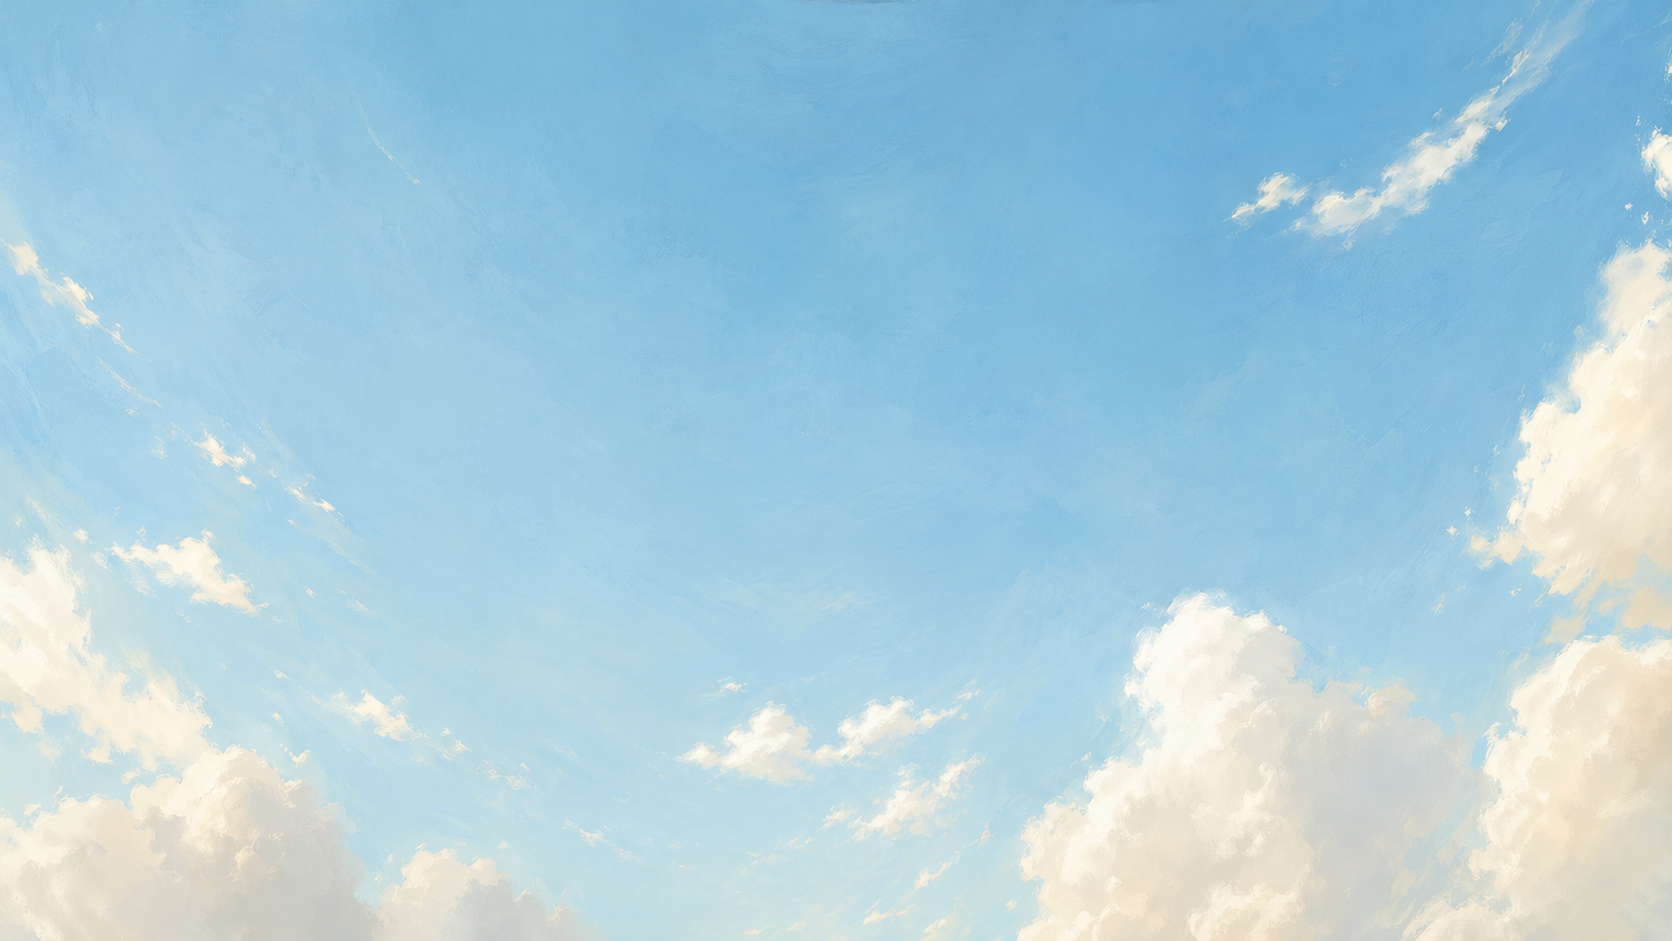
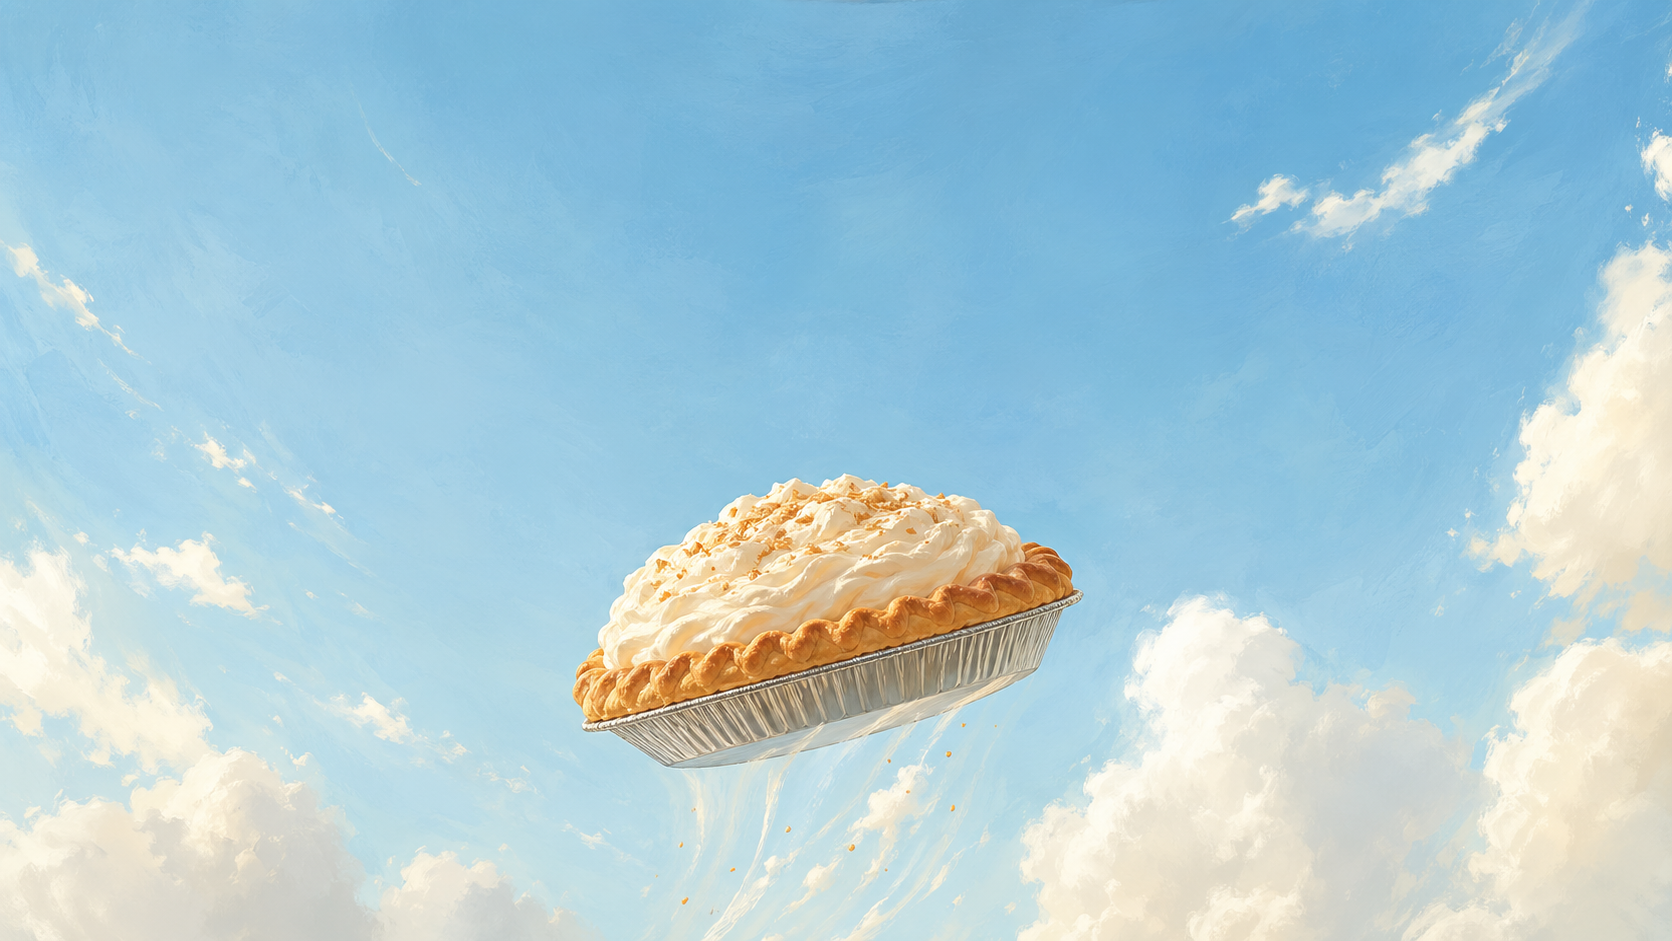
Restore pie background

diff --git a/src/App.tsx b/src/App.tsx
@@ -72,11 +72,6 @@ Amount: ${normalizedAmount ? `$${normalizedAmount}` : '[your amount]'}
 Pies: ${selectedPieCount || '[number of pies]'}
 Description: ${donationNote}`
 
-  const zelleDetails = `Zelle recipient: ${ZELLE_EMAIL}
-Amount: ${normalizedAmount ? `$${normalizedAmount}` : '[your amount]'}
-Pies: ${selectedPieCount || '[number of pies]'}
-Description: ${donationNote}`
-
   const writeClipboard = async (text: string) => {
     if (navigator.clipboard?.writeText) {
       await navigator.clipboard.writeText(text)
@@ -199,9 +194,9 @@ Description: ${donationNote}`
             <button
               className="pay-button zelle"
               type="button"
-              onClick={() => void copyText(zelleDetails, 'zelle')}
+              onClick={() => void copyText(ZELLE_EMAIL, 'zelle')}
             >
-              {copied === 'zelle' ? 'Copied Zelle details' : 'Copy Zelle details'}
+              {copied === 'zelle' ? 'Copied Zelle email' : 'Copy Zelle email'}
             </button>
           </div>
 

diff --git a/src/App.css b/src/App.css
@@ -19,27 +19,6 @@
   position: absolute;
 }
 
-.page-shell::after {
-  background:
-    radial-gradient(ellipse at 50% 0%, rgba(255, 247, 218, 0.98) 0 22%, transparent 23%),
-    radial-gradient(ellipse at 44% 36%, #d88a33 0 7%, transparent 8%),
-    radial-gradient(ellipse at 57% 42%, #c8752c 0 5%, transparent 6%),
-    linear-gradient(145deg, transparent 44%, rgba(255, 237, 182, 0.55) 45% 47%, transparent 48%),
-    linear-gradient(35deg, transparent 43%, rgba(255, 237, 182, 0.5) 44% 47%, transparent 48%),
-    radial-gradient(ellipse at 50% 56%, #f2b85e 0 52%, #bd6e28 53% 61%, transparent 62%);
-  bottom: clamp(28px, 6vw, 74px);
-  content: '';
-  filter: drop-shadow(0 16px 22px rgba(30, 89, 129, 0.16));
-  height: clamp(70px, 12vw, 128px);
-  opacity: 0.64;
-  pointer-events: none;
-  position: absolute;
-  right: clamp(-28px, 5vw, 84px);
-  transform: rotate(-7deg);
-  width: clamp(140px, 22vw, 250px);
-  z-index: 0;
-}
-
 .hero-section,
 .impact-section {
   margin: 0 auto;
